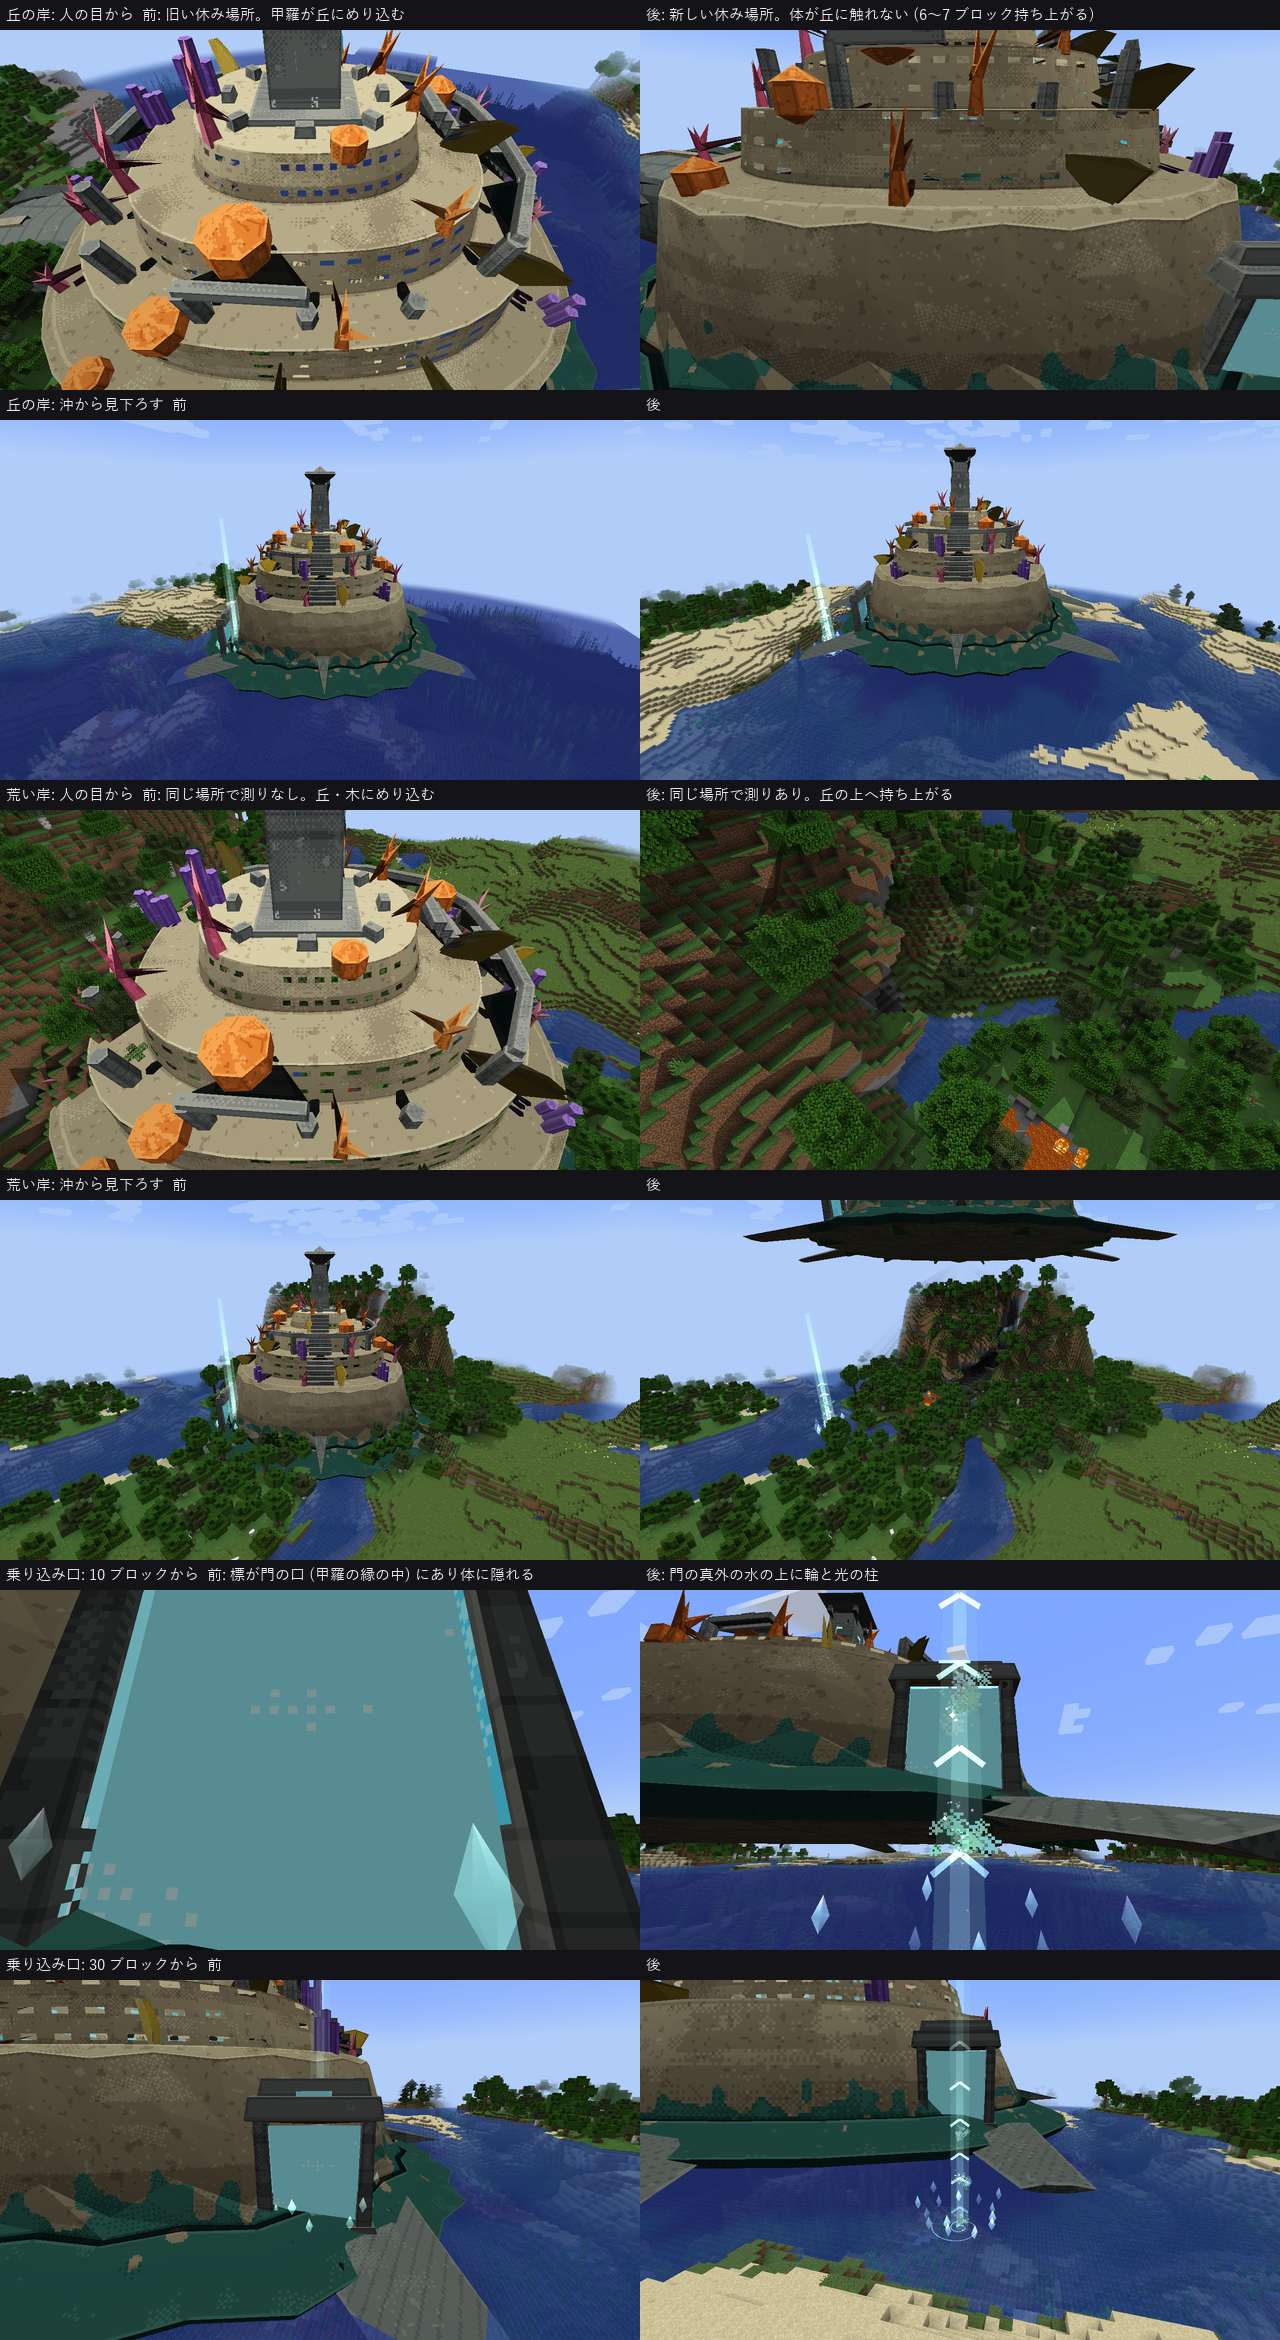
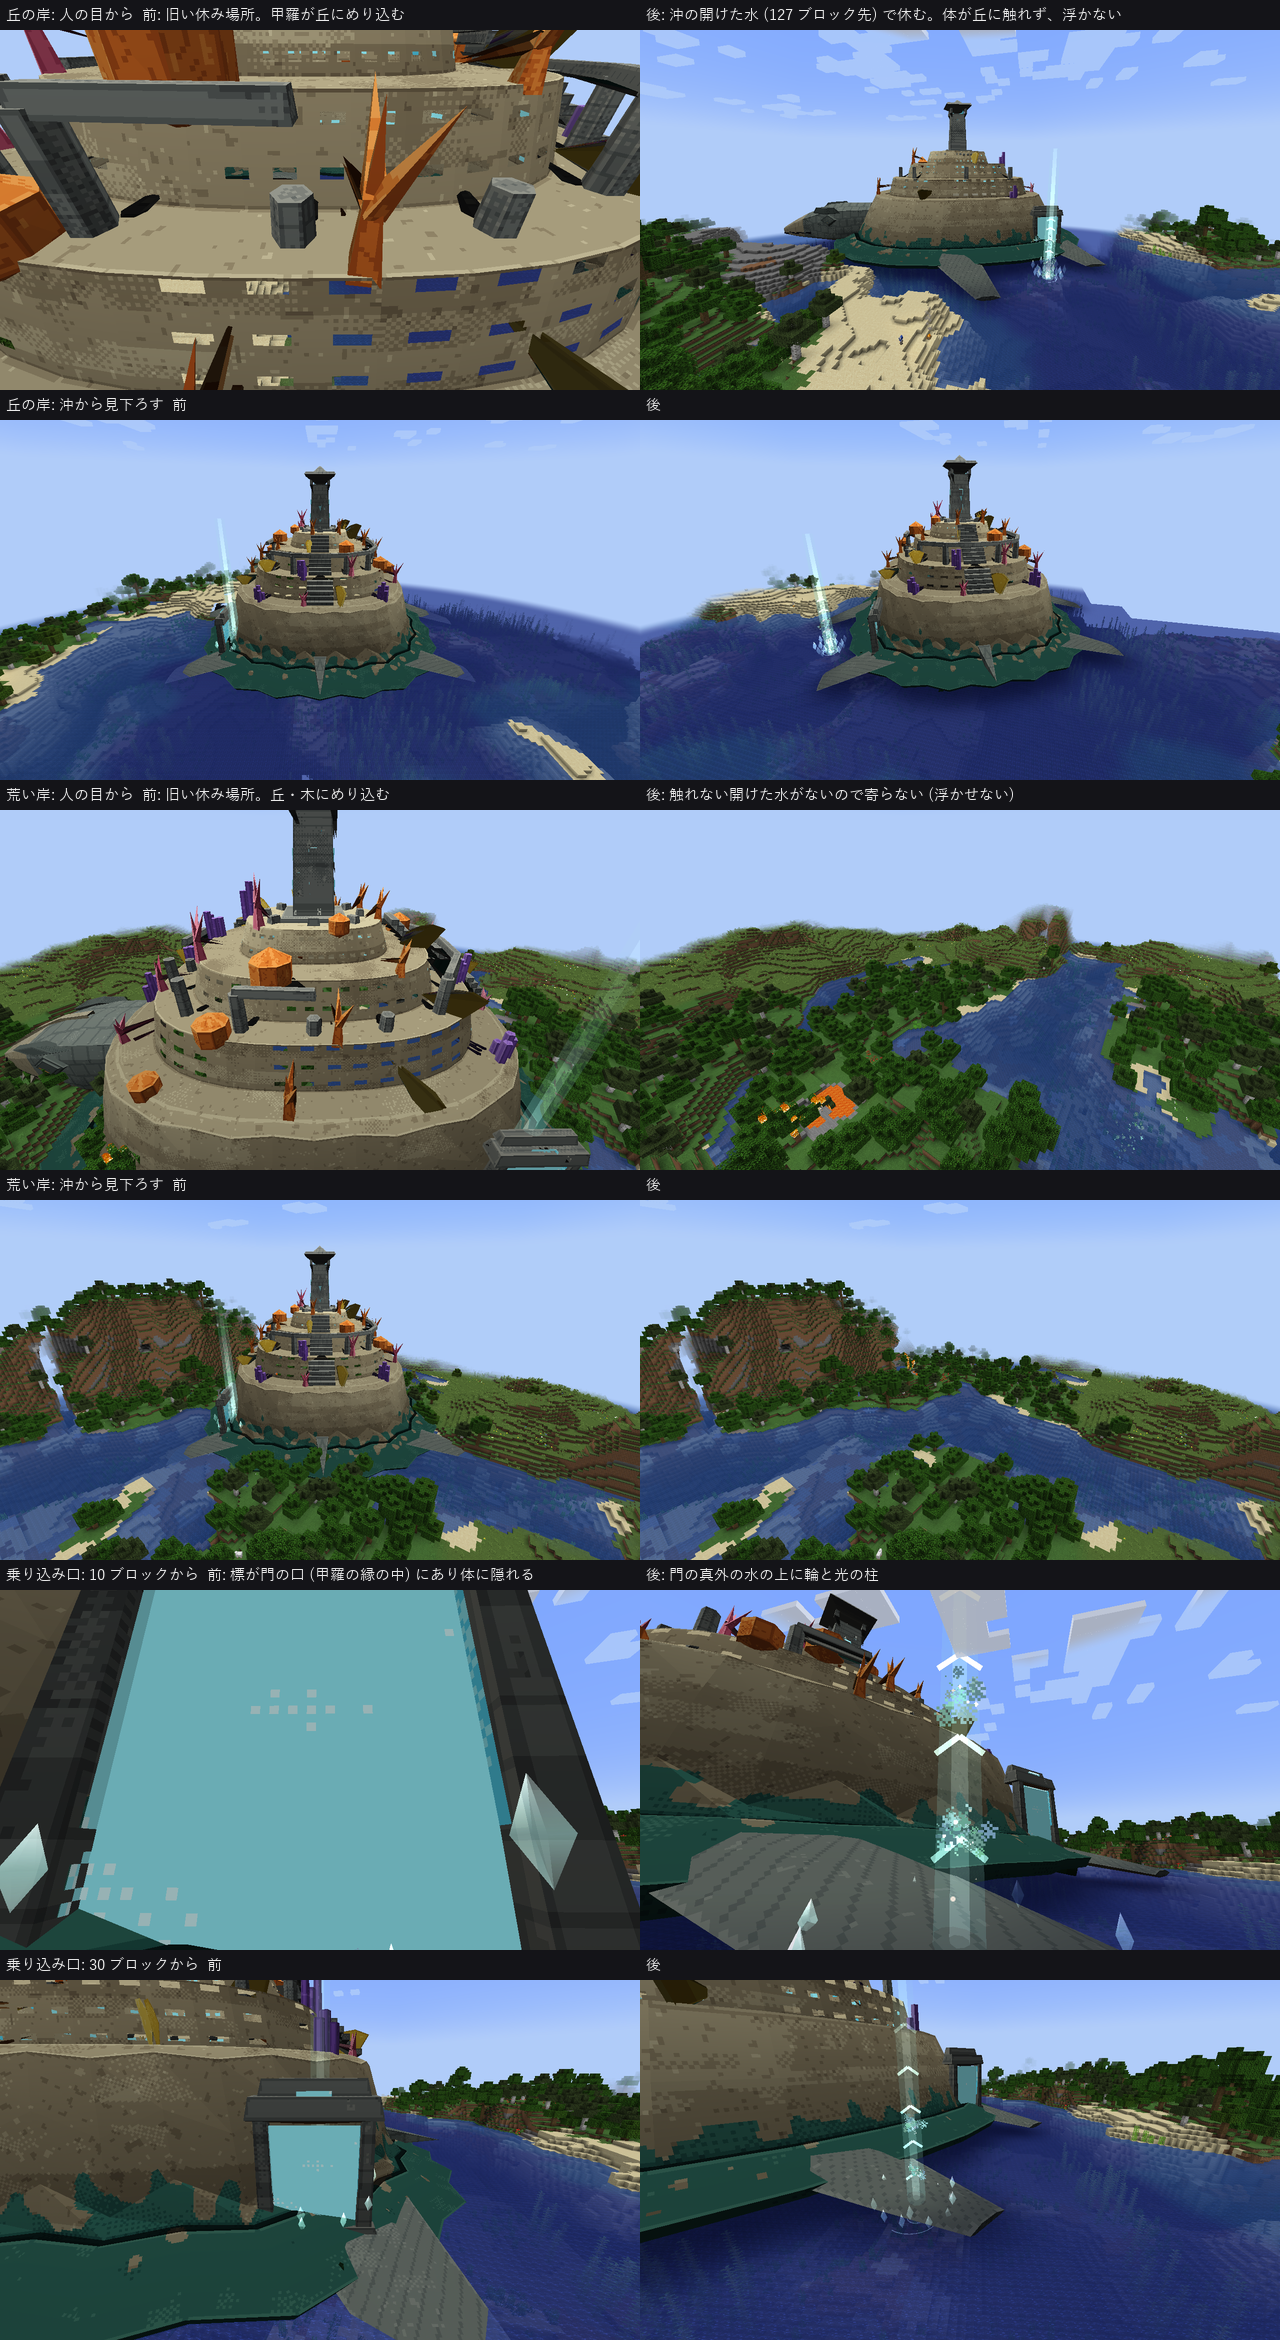
Tide shell rests in open water far enough offshore (no visible lift), steers around shallows, tells the caller where it waits

diff --git a/src/main/java/jp/revati/skyabyss/titan/tide/TideOcean.java b/src/main/java/jp/revati/skyabyss/titan/tide/TideOcean.java
@@ -137,22 +137,17 @@ public final class TideOcean {
         return findRestSpot(level, px, pz, MAX_RAISE);
     }
 
-    // maxRaise: 休む高さからの持ち上げの上限 (試験では大きくして、持ち上げの分布を見る)
+    // maxRaise: 休む高さからの持ち上げの上限
     @Nullable
     public static Vec3 findRestSpot(ServerLevel level, double px, double pz, double maxRaise) {
-        int[] rings = {44, 52, 60, 64, 72, 80, 88, 96, 40, 36, 30, 24};
-        Vec3 best = null;
-        double bestRaise = Double.MAX_VALUE;
-        for (int r : rings) {
+        // 人に近い輪から順に、体が大きいので海の開けた所 (体の下のどこも、休む高さのまま海底・岸・丘・木に触れない) を探す。
+        // 読み込まれているチャンクだけを見る (読み込まれていない沖は選べない)
+        for (int r : REST_RINGS) {
             for (int a = 0; a < 24; a++) {
                 double angle = Math.PI * 2 * (a + (r % 8) / 8.0) / 24;
                 double x = px + Math.cos(angle) * r;
                 double z = pz + Math.sin(angle) * r;
-                if (!waterAtSurface(level, x, z)) {
-                    continue;
-                }
-                int d = depth(level, x, z);
-                if (d < 6 || d > 14 || !nearShore(level, x, z, REST_SHORE)) {
+                if (!waterAtSurface(level, x, z) || depth(level, x, z) < REST_MIN_DEPTH) {
                     continue;
                 }
                 // 巨神の左を人へ向ける: 左の向き (cos yaw, sin yaw) = 人への向き
@@ -164,33 +159,36 @@ public final class TideOcean {
                         || !waterAtSurface(level, dock.x, dock.z) || depth(level, dock.x, dock.z) < 2) {
                     continue;
                 }
-                // 体の下の海底・岸・木・丘にめり込まない: 休む高さのままで済む所を先に選ぶ。なければ、持ち上げが少なくて済む所 (MAX_RAISE まで)
-                double raise = restRaise(level, x, z, yaw);
-                if (raise <= 0.05) {
+                if (restRaise(level, x, z, yaw) <= maxRaise) {
                     return new Vec3(x, yaw, z);
-                }
-                if (raise <= maxRaise && raise < bestRaise) {
-                    bestRaise = raise;
-                    best = new Vec3(x, yaw, z);
                 }
             }
         }
-        return best;
+        return null;
     }
+
+    // 休む場所の中心が人から離れてよい輪 (近い順)。体の下が開けた海を、沖まで探す
+    static final int[] REST_RINGS = {24, 30, 36, 40, 44, 52, 60, 64, 72, 80, 96, 112, 128, 144, 160, 180, 200};
+    // 休む場所の水深の下限 (上限はない。深い沖でも休む高さは海面の 3.5 下)
+    static final int REST_MIN_DEPTH = 6;
 
     // 休む高さ (底が海面の REST_DRAFT 下) から、体のどこも海底・岸・木・丘にめり込まないために持ち上げる量 (ブロック。0 以下 = 持ち上げ不要)。
     // 持ち上げても乗り場の輪は海面にあるので、乗れる (門の敷居が水面から離れるだけ)。読み込まれていない柱は調べない。測りが切ってあれば 0
     public static double restRaise(ServerLevel level, double x, double z, float yaw) {
+        // 体の輪郭 (横 ±67・前 87・後ろ 59) の縁が読み込まれていない沖は、地形が分からないので選ばない
+        for (double[] p : new double[][] {{-67, -59}, {67, -59}, {-67, 87}, {67, 87}, {0, -59}, {0, 87}, {-67, 14}, {67, 14}}) {
+            Vec3 w = new Vec3(x, 0, z).add(TideShellEntity.offset(yaw, p[0], 0, p[1]));
+            if (!loaded(level, w.x, w.z)) {
+                return Double.POSITIVE_INFINITY;
+            }
+        }
         double need = jp.revati.skyabyss.titan.TitanGround.requiredY(level, jp.revati.skyabyss.titan.TitanGround.Surface.FLOOR,
                 jp.revati.skyabyss.titan.solid.TitanVolume.get("tide_shell"), x, z, yaw);
         return Double.isFinite(need) ? need - (level.getSeaLevel() - TideShellEntity.REST_DRAFT) : 0.0;
     }
 
-    // 休む場所の中心が、岸から何ブロック以内か (体が大きいので、岸の丘に重ならない沖も選べるように広げた)
-    public static final int REST_SHORE = 96;
-
-    // 休む場所を選ぶときの持ち上げの上限 (ブロック)。これより持ち上げないと浅瀬・岸にめり込む場所は選ばない
-    public static final double MAX_RAISE = 8.0;
+    // 休む場所を選ぶときの持ち上げの上限 (ブロック)。安全の余白だけ。これより持ち上げないと浅瀬・岸にめり込む場所は選ばない (浮いて見えない)
+    public static final double MAX_RAISE = 1.5;
 
     // 呼び貝で呼ぶときの休む場所: まず (px, pz) の人の近く (findRestSpot)。人が海から遠いときは、読み込まれている範囲で
     // いちばん近い海辺を、輪を広げながら探す (人から 96〜256 ブロックを 32 ブロックずつ、16 方向)。見つからなければ null。

diff --git a/tools/gen_titan_ground_shots.py b/tools/gen_titan_ground_shots.py
@@ -16,13 +16,13 @@ ROOT = Path(__file__).resolve().parents[1]
 OUT = ROOT / "tools/shots/titan_ground.txt"
 SEA = 63
 
-# 場面 1: 丘の岸。人 P=(673,-323)。旧い決まりは 689,-282 (向き -113)、新しい決まりは 595,-302 (向き -15。6〜7 ブロック持ち上げて丘に触れない)
-S1_P = (673, -323)
-S1_OLD = (689, -282, -113)
-S1_NEW = (595, -302, -15)
-# 場面 2: 荒い岸。人 P=(547,633)。旧い決まりは 512,660 (向き -38)。同じ場所で測りを入れると、丘の上へ持ち上がる
+# 場面 1: 丘の岸。人 P=(649,-336)。旧い決まりは岸のすぐ沖 (649,-312)、新しい決まりは沖の開けた水 (682,-213。127 ブロック先。持ち上げなし)
+S1_P = (649, -336)
+S1_OLD = (649, -312, -90)
+S1_NEW = (682, -213, -105)
+# 場面 2: 荒い岸。人 P=(547,633)。旧い決まりは岸のすぐ沖 (530,608)。新しい決まりは、体が触れない開けた水が読み込み範囲になく、寄らない
 S2_P = (547, 633)
-S2_OLD = (512, 660, -38)
+S2_OLD = (530, 608, 56)
 
 lines = []
 add = lines.append
@@ -72,7 +72,7 @@ def views(prefix, p, shell):
     # 人の立つ岸の少し沖寄りの、木より高い所から (木の葉の中に入らない)
     dx0, dz0 = cx - p[0], cz - p[1]
     d0 = math.hypot(dx0, dz0) or 1.0
-    camera((p[0] + dx0 / d0 * 25, SEA + 38, p[1] + dz0 / d0 * 25), (cx, SEA + 15, cz))
+    camera((p[0] - dx0 / d0 * 12, SEA + 38, p[1] - dz0 / d0 * 12), (cx, SEA + 15, cz))
     add("hud off")
     add("chat clear")
     add("wait 20")
@@ -127,13 +127,14 @@ views("s1_before", S1_P, S1_OLD)
 place(S1_NEW, True)
 views("s1_after", S1_P, S1_NEW)
 
-# --- 場面 2: 荒い岸で、同じ場所に前 (めり込む) と後 (持ち上がる)
+# --- 場面 2: 荒い岸で、前 (旧い場所。めり込む) と後 (寄らない)
 camera((S2_P[0] + 0.5, SEA + 8, S2_P[1] + 0.5), (S2_OLD[0], SEA + 20, S2_OLD[1]))
 add("waitchunks 1200")
 add("wait 40")
 place(S2_OLD, False)
 views("s2_before", S2_P, S2_OLD)
-place(S2_OLD, True)
+add("cmd kill @e[type=skyabyss:tide_shell,distance=..2000]")
+add("wait 20")
 views("s2_after", S2_P, S2_OLD)
 
 # --- 場面 3: 乗り込み口。前は門の口に立つ標 (体に隠れる)、後は門の真外の水の上の輪。10 と 30 ブロックから

diff --git a/src/main/java/jp/revati/skyabyss/titan/TitanGroundDev.java b/src/main/java/jp/revati/skyabyss/titan/TitanGroundDev.java
@@ -103,6 +103,18 @@ public final class TitanGroundDev {
                                                                 com.mojang.brigadier.arguments.IntegerArgumentType.getInteger(ctx, "cx"),
                                                                 com.mojang.brigadier.arguments.IntegerArgumentType.getInteger(ctx, "cz"),
                                                                 com.mojang.brigadier.arguments.IntegerArgumentType.getInteger(ctx, "radius")))))))
+                        .then(Commands.literal("callspot")
+                                .then(Commands.argument("px", DoubleArgumentType.doubleArg()).then(Commands.argument("pz", DoubleArgumentType.doubleArg())
+                                        .executes(ctx -> {
+                                            ServerLevel level = ctx.getSource().getServer().overworld();
+                                            double px = DoubleArgumentType.getDouble(ctx, "px");
+                                            double pz = DoubleArgumentType.getDouble(ctx, "pz");
+                                            net.minecraft.world.phys.Vec3 spot = jp.revati.skyabyss.titan.tide.TideOcean.findCallSpot(level, px, pz);
+                                            String text = spot == null ? "callspot: none" : String.format(java.util.Locale.ROOT, "callspot: %d %d %.0f dist %d", (int) spot.x, (int) spot.z,
+                                                    spot.y, (int) Math.hypot(spot.x - px, spot.z - pz));
+                                            ctx.getSource().sendSuccess(() -> net.minecraft.network.chat.Component.literal(text), false);
+                                            return spot == null ? 0 : 1;
+                                        }))))
                         .then(Commands.literal("place").then(Commands.literal("tide")
                                 .then(Commands.argument("x", DoubleArgumentType.doubleArg()).then(Commands.argument("z", DoubleArgumentType.doubleArg())
                                         .then(Commands.argument("yaw", DoubleArgumentType.doubleArg()).executes(ctx -> {

diff --git a/src/main/java/jp/revati/skyabyss/titan/tide/TideShellEntity.java b/src/main/java/jp/revati/skyabyss/titan/tide/TideShellEntity.java
@@ -98,9 +98,9 @@ public class TideShellEntity extends Entity implements GeoEntity, TravelTitan, j
     private static final double LOOK_AHEAD = 30.0;
     private static final double LOOK_FAR = 60.0;
     // 巡航の目的地と前方に要る水深 (浅い所を歩くと体が大きく出すぎる)
-    private static final int CRUISE_DEPTH = 10;
+    private static final int CRUISE_DEPTH = 22;
     // 巡航で、標準の高さからこれ以上の持ち上げが要る先 (岸の丘・浅瀬) へは進まず向きを変える (ブロック)
-    private static final double MAX_CRUISE_LIFT = 6.0;
+    private static final double MAX_CRUISE_LIFT = 1.5;
     private static final int APPROACH_GIVE_UP = 4800;
     // コマンドで休ませたときの長さ
     static final int FORCED_REST = 3600;
@@ -348,8 +348,8 @@ public class TideShellEntity extends Entity implements GeoEntity, TravelTitan, j
                     break;
                 }
             }
-            // 進む先の海底・岸・丘に体が触れないために、標準の巡航の高さから大きく持ち上げねばならない (岸の丘が体の幅に入る) なら、向きを変える
-            if (blockedCooldown <= 0 && Double.isFinite(groundAhead) && groundAhead > cruiseHeight(level) + MAX_CRUISE_LIFT) {
+            // 進む先の海底・岸・丘に体が触れないために、今の高さから少しでも持ち上がらねばならない (浅瀬・岸の丘が体の幅に入る) なら、持ち上がらずに向きを変える (浅瀬を避けて回る)
+            if (blockedCooldown <= 0 && Double.isFinite(groundAhead) && groundAhead > getY() + MAX_CRUISE_LIFT) {
                 turnAway(level);
             }
         }

diff --git a/tools/titan_ground_sheet.py b/tools/titan_ground_sheet.py
@@ -14,9 +14,9 @@ SRC = Path(sys.argv[1]) if len(sys.argv) > 1 else ROOT / "run/shots/titan_ground
 OUT = Path(sys.argv[2]) if len(sys.argv) > 2 else ROOT / "docs/review/previews/titan_ground_sheet.png"
 
 ROWS = [
-    ("s1_before_view", "s1_after_view", "丘の岸: 人の目から", "前: 旧い休み場所。甲羅が丘にめり込む", "後: 新しい休み場所。体が丘に触れない (6〜7 ブロック持ち上がる)"),
+    ("s1_before_view", "s1_after_view", "丘の岸: 人の目から", "前: 旧い休み場所。甲羅が丘にめり込む", "後: 沖の開けた水 (127 ブロック先) で休む。体が丘に触れず、浮かない"),
     ("s1_before_aerial", "s1_after_aerial", "丘の岸: 沖から見下ろす", "前", "後"),
-    ("s2_before_view", "s2_after_view", "荒い岸: 人の目から", "前: 同じ場所で測りなし。丘・木にめり込む", "後: 同じ場所で測りあり。丘の上へ持ち上がる"),
+    ("s2_before_view", "s2_after_view", "荒い岸: 人の目から", "前: 旧い休み場所。丘・木にめり込む", "後: 触れない開けた水がないので寄らない (浮かせない)"),
     ("s2_before_aerial", "s2_after_aerial", "荒い岸: 沖から見下ろす", "前", "後"),
     ("s3_before_door10", "s3_after_door10", "乗り込み口: 10 ブロックから", "前: 標が門の口 (甲羅の縁の中) にあり体に隠れる", "後: 門の真外の水の上に輪と光の柱"),
     ("s3_before_door30", "s3_after_door30", "乗り込み口: 30 ブロックから", "前", "後"),

diff --git a/src/main/java/jp/revati/skyabyss/titan/travel/TitanCalls.java b/src/main/java/jp/revati/skyabyss/titan/travel/TitanCalls.java
@@ -24,6 +24,7 @@ import jp.revati.skyabyss.titan.storm.StormSetup;
 import jp.revati.skyabyss.titan.storm.StormWingEntity;
 import jp.revati.skyabyss.titan.tide.TideKeeper;
 import jp.revati.skyabyss.titan.tide.TideShellEntity;
+import net.minecraft.core.BlockPos;
 import net.minecraft.network.chat.Component;
 import net.minecraft.resources.ResourceKey;
 import net.minecraft.server.level.ServerLevel;
@@ -350,7 +351,16 @@ public final class TitanCalls {
         if (shell == null) {
             shell = (TideShellEntity) TitanKind.TIDE_SHELL.respawn().spawn(level, spot.x + 100, level.getSeaLevel(), spot.z);
         }
-        return shell.callNear(player);
+        boolean ok = shell.callNear(player);
+        if (ok) {
+            // 体の下が開けた水が人から遠いとき (岸が荒れて近くに寄れない) は、待っている場所の向きと距離を添える
+            double far = Math.hypot(spot.x - player.getX(), spot.z - player.getZ());
+            if (far > 60) {
+                Notice.hint(player, LANG + "far.tide_shell", Component.translatable("message.skyabyss.travel.compass."
+                        + SeaVoyage.compass(player.blockPosition(), BlockPos.containing(spot.x, 0, spot.z))), (int) Math.round(far));
+            }
+        }
+        return ok;
     }
 
     private static boolean callWing(ServerLevel level, ServerPlayer player) {

diff --git a/src/main/java/jp/revati/skyabyss/titan/tide/TitanGroundSelfTest.java b/src/main/java/jp/revati/skyabyss/titan/tide/TitanGroundSelfTest.java
@@ -30,7 +30,7 @@ public final class TitanGroundSelfTest {
     private static final int SCAN_STEP = 48;
     private static final int SITES = 4;
     private static final int PLAYERS_PER_SHORE = 3;
-    private static final int PRELOAD = 10;
+    private static final int PRELOAD = 14;
 
     private TitanGroundSelfTest() {
     }
